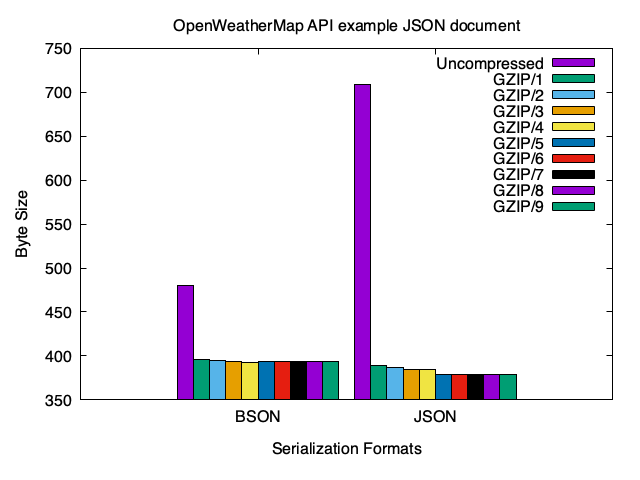
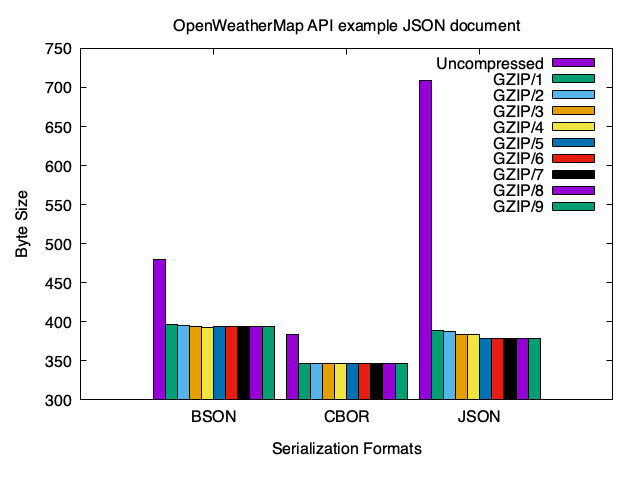
Add CBOR

diff --git a/benchmark/openweathermap/cbor/encode.py b/benchmark/openweathermap/cbor/encode.py
@@ -1,0 +1,10 @@
+import sys
+import cbor2
+import json
+
+with open(sys.argv[1]) as json_data:
+    data = json.load(json_data)
+
+fd = open(sys.argv[2], "wb")
+fd.write(cbor2.dumps(data))
+fd.close()

diff --git a/benchmark/openweathermap/cbor/decode.py b/benchmark/openweathermap/cbor/decode.py
@@ -1,0 +1,8 @@
+import sys
+import cbor2
+import json
+
+with open(sys.argv[1], mode='rb') as cbor_data:
+    data = cbor2.loads(cbor_data.read())
+
+print(json.dumps(data, indent=4))
